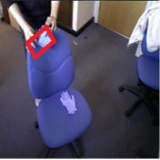
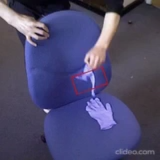
added wacv vid

diff --git a/index.html b/index.html
@@ -284,9 +284,25 @@
               </tr>
           <!--==========================================================================================-->
 
-          <tr>
+          <tr onmouseout="wacv_stop()" onmouseover="wacv_start()">
             <td style="padding:20px;width:25%;vertical-align:middle">
-              <img src='images/wacv.png'>
+              <div class="one">
+                <div class="two" id='glove_image'><video width=100% height=100% autoplay loop>
+                <source src="images/wacv_crop.mp4" type="video/mp4">
+                Your browser does not support the video tag.
+                </video></div>
+                <img src='images/wacv.png' width="160">
+              </div>
+              <script type="text/javascript">
+                function wacv_start() {
+                  document.getElementById('glove_image').style.opacity = "1";
+                }
+
+                function wacv_stop() {
+                  document.getElementById('glove_image').style.opacity = "0";
+                }
+                wacv_stop()
+              </script>
             </td>
             <td style="padding:20px;width:75%;vertical-align:middle">
               <a href="https://ieeexplore.ieee.org/document/8354224">
@@ -302,7 +318,6 @@
               <p>In this paper, we study the necessity to capture various physical constraints through motion consistency which has been demonstrated to improve accuracy, robustness and more importantly rotation adaptiveness.</p>
             </td>
           </tr>
-
         </tbody></table>
 
 <!-- Patents==========================================================================================-->
